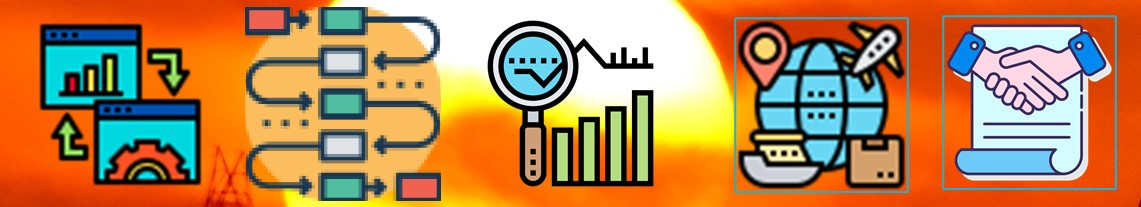
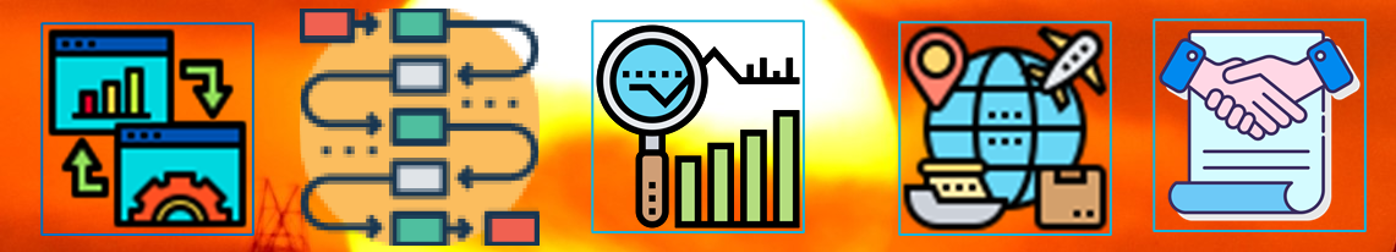
new feedback incorp

diff --git a/index.html b/index.html
@@ -264,32 +264,24 @@
                                    </div>
                                    <div class="col-md-6">
                                         <h3>What is Supply Chain Management ?</h3>
-                                        <p>Undoubtingly, a robust and resilient Supply Chain plays the strategic role towards business success. Not only, Supply Chain efficiencies improvement leads to increase in stakeholder value but also it greatly provides competitive advantage. Lead Source supports organization thought this complex journey by helping them adopt new trends, new skills, new market and new technology. </p>
-                                        <p>Lead Source provide expertise to their customer in efficiently and effectively managing it supply chains. Lead Source provides with necessary information, guidance and strategies to implement truly integrated supply chains that deliver bottom line results. In order to achieve competitive advantages, it is essential to establish processes and organizational structures, which are efficient, responsive, and flexible. We work closely with our customer to identify opportunities of cost optimization. </p>
-                                        <p>Lead Source advise clients on a variety of topics covering supply chain strategy, planning, warehousing, customer service, inventory management, strategic sourcing, manufacturing, distribution and technology adaptation. We have years of experience helping our clients navigate these areas in major sectors including FMCG, QSR, Retail, Agro business and logistics/distributions.</p>
-                                        <p>Year 2020, has made absolutely clear that nothing is completely insulted from a global event and hence forcing business look for back-up plans for continuity of the business. There focus has shifted to fundamental of their current supply chain performance so as to manage current crisis and generate long term viability of the business. </p>
+                                        <p>Undoubtingly, a robust and resilient Supply Chain plays strategic role towards business success. Not only does Supply Chain efficiencies improvement lead to direct enhancement in stakeholder value but also does it greatly improve competitive advantage. Lead Source supports organization through their Supply Chain transformational journey by helping them adopt best practices, new trends, new skills, new markets and new technologies. </p>
+                                        <p>Lead Source advise clients on a variety of topics covering supply chain strategy, planning, warehousing, customer service, inventory management, strategic procurement, manufacturing, distribution and technology adaptation. We have years of experience helping our clients navigate these areas in major sectors including FMCG, QSR, Retail, Agro business and logistics/distributions. </p>
+                                        <p>We believe that today’ challenges are tomorrows growth opportunities. </p>
                                         <h3>How we do it ? </h3>
-                                        <p>Lead Source focus on holistic approach to supply chain planning and furthermore aligning this with overall business strategy thought focus on improving people, process and technology. </p>
+                                        <p>Lead Source focus on holistic approach to supply chain planning by aligning supply chain with overall business strategy. </p>
+                                        
                                         
                                    </div>
 
                                    <div class="col-md-6">
-                                        <p class="second-col">Our consultants bring vast experience and expertise to implement best in case structures and processes to weed out inefficiencies and enhance visibility of Supply chain for better decision making.</p>
-                                        
-                                        <p>Lead Source solutions help organizations to optimize inventory level, create efficiencies, higher resource utilization and increase profitability through information visibility, lean operations and value-added activities.</p>
-                                        <p>Lead Source work closely with our customer to balance demand, supply and production planning, hence dropping lead timing, ensuring delivery efficiency and optimizing work in capital. </p>
-                                        <p>We lead technology adaptation within our customer organization there by creating digital back bone enhancing visibility of supply chain for better commercial and strategic decision making. </p>
-                                   
-
-                                   
-                                   <h3>What are the benefits of these initiatives? </h3>
+                                        <p class="second-col">Our consultants bring vast experience and expertise to implement best in case structures and processes to align people, process and technology.</p>
+                                        <p>Lead Source solutions help organizations to rationalize inventory level, achieve higher resource utilization, align demand and supply planning, implement lean operations.</p>
+                                        <h3>What are the benefits of these initiatives? </h3>
                                    <ul>
                                         <li>Organizations will generate a holistic view of supply chain and this would greatly enhance their decision taking capabilities.  </li>
-                                        <li>Organizations can align their resource on key activities areas and generate greater stakeholder value without entangling themselves cross functional fences. </li>
-                                        <li>Organizations greatly reduce time to market for new product launch or new market entry along with ability in response to market need would lead to top line enhancement. </li>
-                                        <li>Great resilience for black swan (COVID-19) events, maximize business survivals in chaotic times. </li>
-                                        <li>Better visibility of supply chain helps reduce work in capital and efficient cash flows with hope to remain financially viable. </li>
-                                        <li>Direct cost saving leads to improved bottom line and greater stakeholder value.</li>
+                                        <li>Organizations can better align their resource engaged in key activities areas and thus generate greater value without entangling themselves in cross functional fences.  </li>
+                                        <li>Better visibility of supply chain helps reduce work in capital and efficient cash flows with hope to remain financially viable during chaotic times (COVID-19). </li>
+                                        <li>Better visibility of supply chain helps reduce work in capital and efficient cash flows with hope to remain financially viable.  </li>
                                    </ul>
                               </div>
 
@@ -301,30 +293,24 @@
                                    </div>
                                    <div class="col-md-6">
                                         <h3>What is Procurement Outsourcing? </h3>
-                                        <p>Lead Source guide its customers towards “procurement excellence” to drive only direct cost saving at bottom line but also improve business value, enhance competitive edge, mitigate risks and create transparency in supply management.</p>
+                                        <p>Lead Source guide its customers towards “procurement excellence” to drive not only direct cost saving at bottom line but also improve business value, enhance competitive edge, mitigate risks and create transparency in purchases.</p>
                                         <p>Our consultants have developed extensive global supplier network and relationship to accelerate the sourcing and manage material/services movement. Our expertise in implementing best practices across procurement function and quickly remove non-value activities to streamline procurement function with business strategy. We often work closely with CPO/CFO to create tangible business value with the available organization’ capability and talent constrained. </p>
-                                        <p>We guide our clients though constantly changing procurement landscape with new strategies, knowledge, technology, tools and support them with constantly upgrade of their procurement team capability. We enhance efficiency and effectiveness of people, processes, and technologies through transformation of the procurement process.</p>
-                                        <p>We focus on value generated over just cost hence delivery sustainable solutions to foster enhanced collaboration both internally and externally, aligning purchasing planning processes to facilitate the execution of the company’ strategic plans. </p>
-                                        <p>We believe that today’ challenges are tomorrows growth opportunities.</p>
 
                                         <h3>How we do ?</h3>
-                                        <p>We would closely with Clients buyers to understand the buying and consumption patterns and support them by create and optimize the organization spend map.  We generate spend analysis and use these insights to identify opportunities for cost reductions on COGS or SG&A expenses.</p>
+                                        <p>Lead Source uses their expensive network to identify potential suppliers. We support organizations on supplier onboarding, assessment and performance evaluation. </p>
+                                        <p>Lead source can optimize your procurement planning process or can outsource complete procurement planning function. </p>
                                    </div>
                                    <div class="col-md-6">
-                                        <p class="second-col">Lead Source uses their expensive network to identify potential suppliers. We support organizations on supplier onboarding, assessment and performance evaluation. </p>
-                                        <p>Lead source can optimize your procurement planning process or can outsource complete procurement planning function. </p>
-                                        <p>Lead source helps optimize procurement function by implementing state of art structure and best practices. We implement systems to streamline sourcing and procurement processes while improving management and control capabilities. We do manage complete procurement functions outsourced for our customers.</p>
-                                        <p>Lead source has extensive experience and expertise in leading negotiation and generating ‘win-win’ situation. </p>
-                                        <p>Lead Source can lead internal and external procurement audits to identify process gaps, send leakages, supplier risks or produce risks; thereby aligning procurement function with corporate business guidelines. </p>
+                                        
+                                        <p class="second-col">Lead source has extensive experience and expertise in leading negotiation and generating ‘win-win’ situation. </p>
+                                        <p>Lead Source can lead internal and external procurement audits to identify process gaps, send leakages, supplier risks or produce risks; thereby aligning procurement function with corporate business guidelines.</p>
 
                                         <h3>What Benefits we can generate? </h3>
                                         <ul>
                                              <li>Organizations can understand how cost is building up across their supply chain network. Typically, we can generate 9% to 12% direct cost reductions. </li>
-                                             <li>Organizations can be better manager variance generated due to commodity and fuel price fluctuations and utilize opportunities to secure future purchases. </li>
-                                             <li>Organization can create a lean and robust procurement function with agility to meet changing business needs. </li>
-                                             <li>Enhanced Supplier relationship with continuous focus on generating value and better manage ‘Procurement to Pay’ cycle. </li>
-                                             <li>Better manger supplier’ side risk by dealing only with qualified and healthy suppliers. </li>
-                                             <li>Ensuring both direct and indirect good following corporate guidelines and ‘code of conduct’. </li>
+                                             <li>Organizations enhanced Supplier relationship with continuous focus on generating value and hence better manage ‘Procurement to Pay’ cycle.  </li>
+                                             <li>Organizations can be better manager variance generated due to commodity and fuel price fluctuations and utilize opportunities to secure future purchases.</li>
+                                             <li>Organizations ensure both direct and indirect good following corporate guidelines and ‘code of conduct’. </li>
                                         </ul>
                                    </div>
                               </div>
@@ -335,30 +321,19 @@
                                    </div>
                                    <div class="col-md-6">
                                         <h3>What is Business Consulting ?</h3>
-                                        <p>Lead Source provide business consulting services on topics related to supply chain and help organizations gain maturity across their supply chain function. In this process, Lead Source focus on aligning supply chain both internally and externally needs though accentuating value across major supply chain activities.</p>
+                                        <p>In a period of global uncertainty, pressure on the supply chain continue to increase. Making Companies not only focusing on supply chain optimization but also focusing making business sustainable to sail into unchartered territories.</p>
 
                                         <p>Lead Source helps business restructure their supply chain operations to cut down complexity and enhance collaboration, improve visibility and control, infuse new roles and responsibility, understand and adapt to market trends.  In addition, Lead Source assess organization’ current business processes maturity and advise on best in class To-Be processes hence bring alignment between supply chain planning and business planning. </p>
 
-                                        <p>In a period of global uncertainty, pressure on the supply chain continue to increase. Making Companies not only focusing on supply chain optimization but also focusing making business sustainable to sail into unchartered territories. </p>
-
-                                        <h3>Companies needs to build capabilities and invest now on key emerging trends for new decade: </h3>
-                                        <ul>
-                                             <li>Consumer technology enhancement and it outreach:  Technology is drastically changing consumer behaviour and buying pattern plus there is increase in demand for better consumer service. </li>
-                                             <li>Changing Demographics: Aging population as well as youth population has changed the buying patterns. </li>
-                                             <li>Urbanization & Spread of Wealth: With further raise of middle class and urbanization of population there is need to restructure supply chain and logistic infrastructure.  </li>
-                                             <li>New Food Discoveries: This decade will introduce new super foods for them supply chain needs to be modified. </li>
-                                        </ul>
-
-                                        <p>Lead Source is well equipped to lead organization sail through these turbulent times and get future ready. </p>
+                                        <h3>How we do it ?</h3>
+                                        <p>We conduct value chain analysis for organizations and bench mark their cost structures against the best in class. Using these insights, we are generating clear solutions on activities groups and guide organizations to implement these solutions to optimize their cost structures.</p>
+                                        <p>We assist our customer in accessing alternative procurement channels and create new alternative procurement channels and thereby balance their supply line risk. </p>
 
                                         
                                    </div>
                                    <div class="col-md-6">
-                                        <h3>How we do it ?</h3>
-                                        <p>We conduct value chain analysis for organizations and bench mark their cost structures against the best in class. Using these insights, we are generating clear solutions on activities groups and guide organizations to implement these solutions to optimize their cost structures.</p>
-                                        <p>We assess the current strategic sourcing practices and generate possible alternatives to lower sourcing risks and accentuate cost savings. </p>
-                                        <p>We assist our customer in accessing alternative procurement channels and create new alternative procurement channels and thereby balance their supply line risk. </p>
-                                        <p>We access possibilities of creating lower cost country sourcing by leveraging our extensive network at global level. </p>
+                                        
+                                        <p class="second-col">We access possibilities of creating lower cost country sourcing by leveraging our extensive network at global level. </p>
                                         <p>We support our customers by accessing demand potential in new market and generating market entry strategies to support these markets. </p>
 
                                         <h3>What are the benefits of these initiatives?</h3>
@@ -380,15 +355,14 @@
                                         <h3>What is Category Research ?</h3>
                                         <p>Category Management is a strategic approach to align organization’ resources to perform focused procurement whereby segmenting organization’ spend into areas which contain similar or related products or services together. </p>
                                         <p>Category Management may involve bundling products into direct and indirect products or services or may buckets products or services further by volume, value, supplier or type. Later, using various associated theories, such as Pareto (80/20 rule), Kraljic matrix, and ABC analysis, fathom insights about these categories purchasing behaviours and help organizations priorities and focus their spending and efforts.  </p>
-                                        <p>In addition, Category management involves mapping of the supply and logistic lines for products and its raw materials along with generating insights on market and supplier universe. These mapping of the supply chain and subsequent insights are fortified with understanding of social, political and environmental factors and thereby ameliorate knowledge on available supply chain risk and opportunities. For example: Low grass production would lead to drop milk production and subsequently a drop in overall butter produce. This scenario will erode profit margins of hospitality business, where butter is consumed considerably. </p>
 
                                         <h3>How we do it ?</h3>
                                         <p>We support our customer with building categories and developing Category analysis in this process identifying the cost drivers across the supply chain. </p>
+                                        <p>We understand ingredients supply chain and generate insights from their price trends/cycles. We provide value advise on ‘buy’ or ‘wait’ decisions and similarly on extent of forward covers decisions. </p>
                                    </div>
                                    <div class="col-md-6">
-                                        <p class="second-col">We understand ingredients supply chain and generate insights from their price trends/cycles. We provide value advise on ‘buy’ or ‘wait’ decisions and similarly on extent of forward covers decisions. </p>
-                                        <p>We understand the item pricing trends prevailing in both local and international markets and based on these insights we give practice advices to our customers. </p>
-                                        <p>We manage our customer categories budgets and delivery cost saving for bottom-line. </p>
+                                        
+                                        <p class="second-col">We manage our customer categories budgets and delivery cost saving for bottom-line. </p>
                                         <p>We build scenarios and ‘What-if’ analysis using our Know-how of supply chain and craft our customers supply chain strategies.  </p>
 
                                         <h3>What are the benefits of these initiatives? </h3>
@@ -409,20 +383,15 @@
                                    </div>
                                    <div class="col-md-6">
                                         <h3>What is Trade Facilitation ? </h3>
-                                        <p>Trade facilitation looks at how procedures and controls governing the movement of goods across national borders can be improved to reduce associated cost burdens and maximise efficiency while safeguarding legitimate regulatory objectives. Business costs may be a direct function of collecting information and submitting declarations or an indirect consequence of border checks in the form of delays and associated time penalties, forgone business opportunities and reduced competitiveness. (Source Wiki)</p>
-                                        <p>Lead Source has expertise to facilitate trading across geography and manage organization both strategic and tactical sourcing needs. Lead Source can play a key role in building partnerships for your organizations and help your create growth in these volatile markets.  </p>
-                                        <p>Lead Source provides a full service (quantitative & qualitative) of market research solutions and combined these insights with our experience to delivery practical strategic advice and solutions to support growth for our clients.  </p>
+                                        <p>Lead Source has expertise to facilitate trading across geographies and to manage organization’ both tactical and strategic sourcing needs. Lead Source plays a key role in building partnerships for your organizations and help your create growth in these volatile markets.  </p>
                                         <p>In current business scenarios, market consolidation is key trends observed across industries to meet the changing needs of the business. Lead Source team leads such homogenization efforts to merger supply chains structures as well as process to ensure benefits of economies of scale and synergies across business units.</p>
 
                                         <h3>How we do it ? </h3>
-                                        <p>Lead Source with its vast network of qualified seller and buyer help build strategic partnerships. We assist companies in performing supplier/buyer assessment and subsequently facilitate signing the service agreement.</p>
+                                        <p>Lead Source with its vast network of qualified seller and buyer help build strategic partnerships. Lead Source brings global sellers and buyers to common platform to facilitate the trade discussion. We assist companies in performing supplier/buyer assessment and subsequently facilitate signing the service agreement. </p>
+
                                    </div>
                                    <div class="col-md-6">
-                                        <p class="second-col">Lead Source brings global sellers and buyers to common platform and facilitate the trade discussion. </p>
-                                        <p>Lead Source leads contract negotiations on its client’s behalf on item price, trader terms, logistic routes and delivery terms to generate win-win solutions both seller and buyers. </p>
-                                        <p>Lead Source completely manage the contract execution with strategic partners to ensure best value is generated for its customers. </p>
-                                        <p>Lead Source often assist in meeting its customer funds needs by assisting raising in Debt and Equity to support business expansion plans. </p>
-                                        <p>Lead Source are supporting organization on assessing M&A needs, conducting due diligences and creating strategic roadmaps to enhance value change capabilities. </p>
+                                        <p class="second-col">Lead Source often assists its customer by raising in Debt and Equity. We are supporting organization on M&A assessment, conducting due diligences and creating Market entry strategies. </p>
 
                                         <h3>What are the benefits of these initiatives? </h3>
                                         <ul>

diff --git a/css/custom.css b/css/custom.css
@@ -506,13 +506,13 @@
 
   @media (min-width: 768px) {
     .feature-thumb {
-      min-height: 481px;
+      min-height: 375px;
     }
   }
 
   @media (min-width: 1024px) {
     .feature-thumb {
-      min-height: 427px;
+      min-height: 377px;
     }
   }
 
@@ -753,6 +753,7 @@
 
   #services .owl-theme .owl-item .feature-thumb{
     margin-bottom: 0;
+    padding: 30px 20px;
   }
 
   #services .owl-services{

diff --git a/js/custom.js b/js/custom.js
@@ -43,7 +43,7 @@
       animateOut: 'fadeOut',
       loop: true,
       autoplayHoverPause: true,
-      autoplay: true,
+      autoplay: false,
       smartSpeed: 2000,
       dots: false,
       responsiveClass: true,
